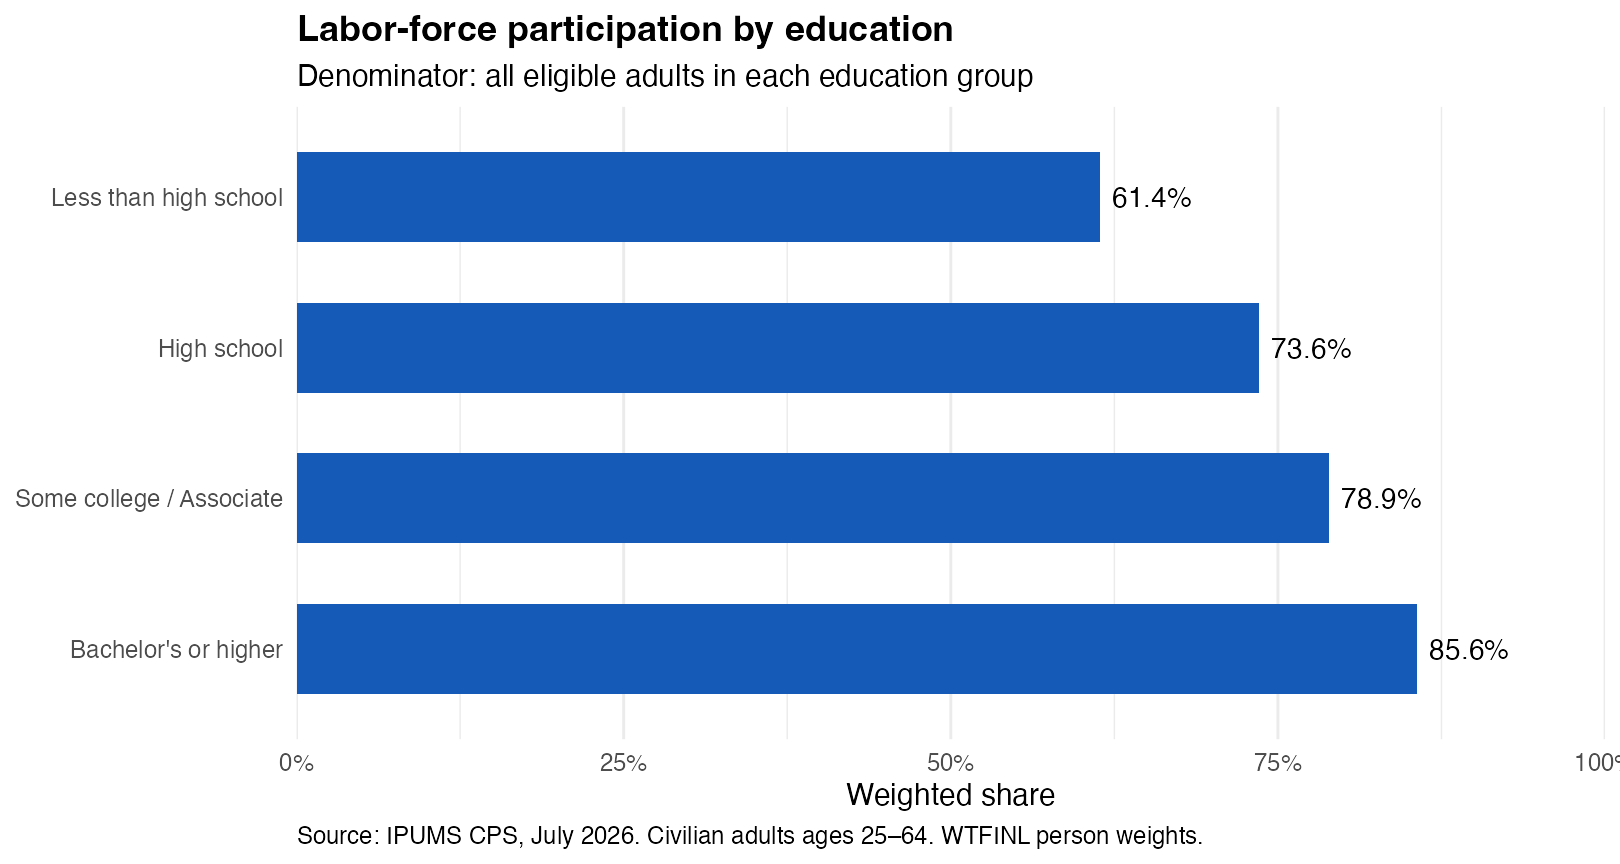
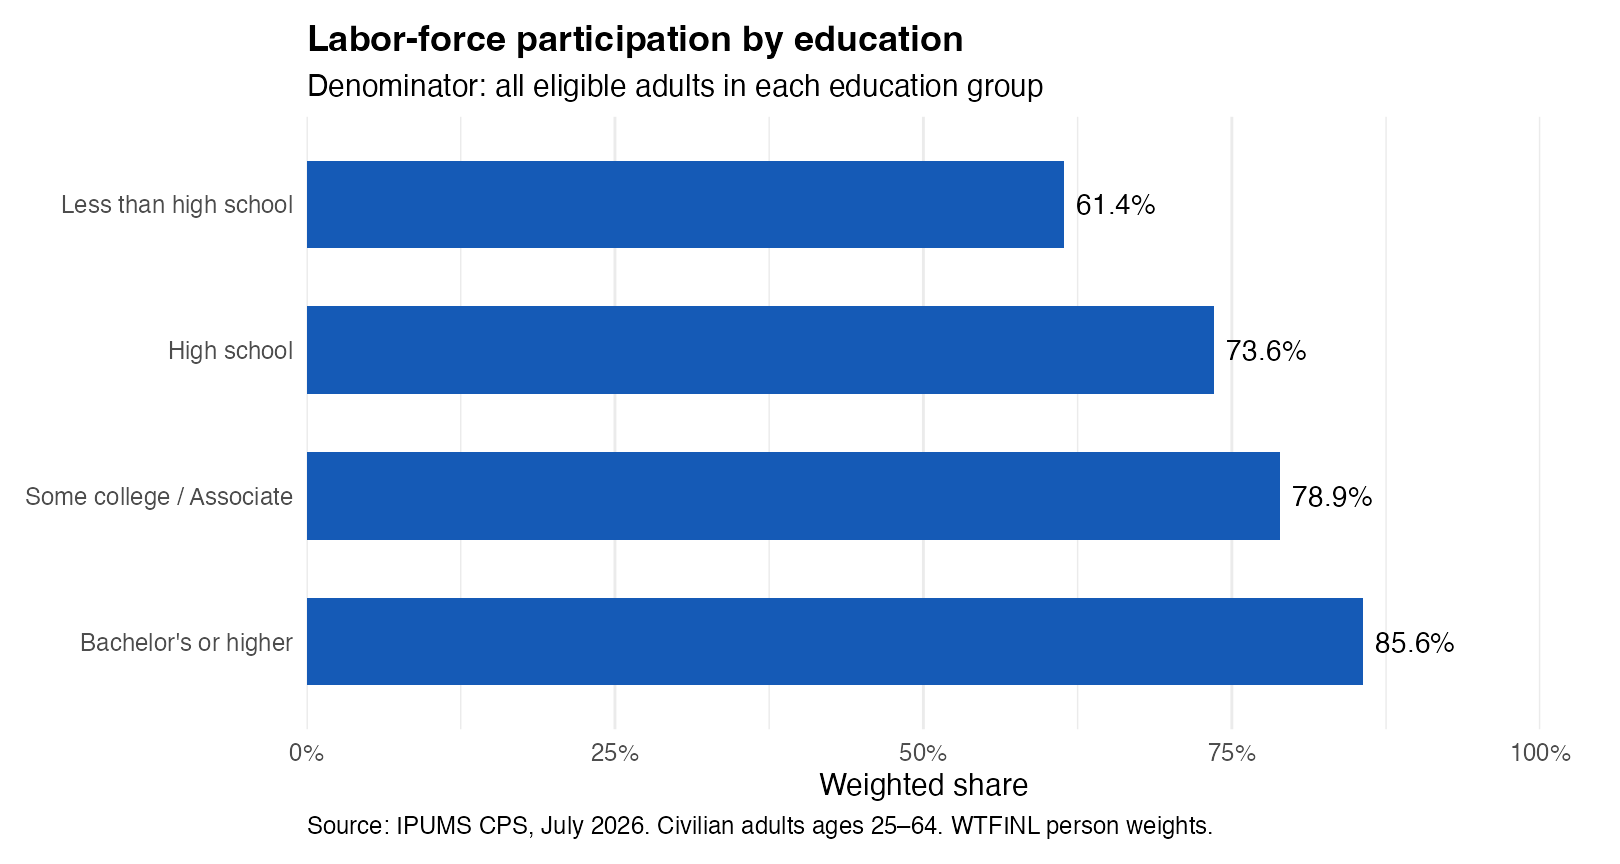
Give Blog 3 three distinct core figures and clarify Blog 6 runnable workflow

diff --git a/docs/blog/posts/post6/index.html b/docs/blog/posts/post6/index.html
@@ -185,9 +185,12 @@ money income</strong>, not individual earnings.</p>
 <p>Download your own authorized extract and keep the ASCII file, Stata
 reading statements, and codebook together. The repository’s Python
 script reads fixed-width positions from those statements; opening the
-file as a comma-separated CSV would misalign its fields. After
-installing the packages listed in the README, run this command from
-<code>blog/posts/post6</code>, using your local paths:</p>
+file as a comma-separated CSV would misalign its fields. The code
+excerpts below explain parts of the full script; they are not a
+standalone sequence to paste into a new Python session. For the complete
+import, matching, estimation and exports, install the packages listed in
+the README and run this command from <code>blog/posts/post6</code>,
+using your local paths:</p>
 <div class="sourceCode" id="cb1"><pre
 class="sourceCode bash"><code class="sourceCode bash"><span id="cb1-1"><a href="#cb1-1" aria-hidden="true" tabindex="-1"></a><span class="ex">python</span> code/analyze.py <span class="at">--data</span> /path/J366555.txt <span class="dt">\</span></span>
 <span id="cb1-2"><a href="#cb1-2" aria-hidden="true" tabindex="-1"></a>  <span class="at">--statements</span> /path/J366555.do <span class="at">--fims</span> /path/fim16218_gid_BO_2_UBL.txt</span></code></pre></div>
@@ -206,16 +209,16 @@ class="sourceCode sql"><code class="sourceCode sql"><span id="cb2-1"><a href="#c
 whose keys agree. Validate unique person–wave and family–wave keys
 first, then assert that this join preserves the membership row count.
 Otherwise, duplicate keys can silently multiply observations.</p>
-<p>The full importer creates these tables in Python. SQL then runs
-through the standard-library connection:</p>
+<p>The importer opens an in-memory SQLite connection, creates and
+populates the tables, and defines the <code>panel</code> view. Only
+<strong>after those steps</strong>, the following excerpt from
+<code>analyze.py</code> executes the SQL. Here <code>db</code> is that
+existing populated connection, and <code>ROOT</code> is the post
+directory defined by the script:</p>
 <div class="sourceCode" id="cb3"><pre
-class="sourceCode python"><code class="sourceCode python"><span id="cb3-1"><a href="#cb3-1" aria-hidden="true" tabindex="-1"></a><span class="im">import</span> sqlite3</span>
-<span id="cb3-2"><a href="#cb3-2" aria-hidden="true" tabindex="-1"></a><span class="im">from</span> pathlib <span class="im">import</span> Path</span>
-<span id="cb3-3"><a href="#cb3-3" aria-hidden="true" tabindex="-1"></a></span>
-<span id="cb3-4"><a href="#cb3-4" aria-hidden="true" tabindex="-1"></a>db <span class="op">=</span> sqlite3.<span class="ex">connect</span>(<span class="st">&quot;:memory:&quot;</span>)</span>
-<span id="cb3-5"><a href="#cb3-5" aria-hidden="true" tabindex="-1"></a><span class="co"># Populate people, membership, families, and links with the importer first.</span></span>
-<span id="cb3-6"><a href="#cb3-6" aria-hidden="true" tabindex="-1"></a>db.executescript(Path(<span class="st">&quot;sql/match.sql&quot;</span>).read_text())</span>
-<span id="cb3-7"><a href="#cb3-7" aria-hidden="true" tabindex="-1"></a>matched <span class="op">=</span> db.execute(<span class="st">&quot;SELECT * FROM matched ORDER BY child_pid&quot;</span>).fetchall()</span></code></pre></div>
+class="sourceCode python"><code class="sourceCode python"><span id="cb3-1"><a href="#cb3-1" aria-hidden="true" tabindex="-1"></a><span class="co"># Excerpt from analyze.py; run the full script for table creation and import.</span></span>
+<span id="cb3-2"><a href="#cb3-2" aria-hidden="true" tabindex="-1"></a>db.executescript((ROOT <span class="op">/</span> <span class="st">&quot;sql/match.sql&quot;</span>).read_text())</span>
+<span id="cb3-3"><a href="#cb3-3" aria-hidden="true" tabindex="-1"></a>matched <span class="op">=</span> db.execute(<span class="st">&quot;SELECT * FROM matched ORDER BY child_pid&quot;</span>).fetchall()</span></code></pre></div>
 <h2 id="summarize-years-before-matching-generations">2. Summarize years
 before matching generations</h2>
 <p>Income generally refers to the calendar year before the interview. I
@@ -252,8 +255,9 @@ persistence</h2>
 <p>The slope is the intergenerational elasticity (IGE): approximately
 how much higher child income is associated with a 1% difference in
 father income. Larger values indicate stronger income persistence, not a
-causal effect of parental money. Given the SQL connection above, Python
-obtains the slope as follows:</p>
+causal effect of parental money. Continuing inside the same full-script
+workflow, after <code>matched</code> exists, Python obtains the slope as
+follows:</p>
 <div class="sourceCode" id="cb5"><pre
 class="sourceCode python"><code class="sourceCode python"><span id="cb5-1"><a href="#cb5-1" aria-hidden="true" tabindex="-1"></a><span class="im">import</span> numpy <span class="im">as</span> np</span>
 <span id="cb5-2"><a href="#cb5-2" aria-hidden="true" tabindex="-1"></a></span>
@@ -264,7 +268,7 @@ class="sourceCode python"><code class="sourceCode python"><span id="cb5-1"><a hr
 <p>The full script repeats this regression for each income definition
 and exports the estimates and confidence intervals.</p>
 <figure>
-<img src="results/figures/figure1.svg"
+<img class="img-fluid figure-img" src="results/figures/figure1.svg"
 alt="Figure 1. Single-year versus multi-year prime-age family-income estimates, using identical matched pairs." />
 <figcaption aria-hidden="true">Figure 1. Single-year versus multi-year
 prime-age family-income estimates, using identical matched
@@ -282,7 +286,7 @@ child income (<code>1.10**0.574 - 1</code>). These averages remain
 imperfect proxies for lifetime income.</p>
 <h2 id="check-age-separately">4. Check age separately</h2>
 <figure>
-<img src="results/figures/figure2.svg"
+<img class="img-fluid figure-img" src="results/figures/figure2.svg"
 alt="Figure 2. Early-adult versus prime-age child income, holding the father’s multi-year measure and the matched sample fixed." />
 <figcaption aria-hidden="true">Figure 2. Early-adult versus prime-age
 child income, holding the father’s multi-year measure and the matched

diff --git a/docs/blog/posts/post3/index.html b/docs/blog/posts/post3/index.html
@@ -185,7 +185,7 @@ window.Quarto = {
     <div>
     <div class="quarto-title-meta-heading">Modified</div>
     <div class="quarto-title-meta-contents">
-      <p class="date-modified">October 19, 2026</p>
+      <p class="date-modified">October 22, 2026</p>
     </div>
   </div>
     
@@ -194,7 +194,6 @@ window.Quarto = {
 
 
 </header>
-
 <p>When people discuss education and employment, they often focus on
 unemployment. Yet the unemployment rate excludes people outside the
 labor force. A group can therefore have relatively low unemployment even
@@ -212,7 +211,7 @@ civilian adults ages 25–64 in four education groups. All estimates use
 the final basic person weight. The retained sample contains 44,881
 respondents. These are descriptive estimates for one month, without
 seasonal adjustment.</p>
-<figure class="figure">
+<figure>
 <img class="img-fluid figure-img" src="results/participation.png"
 alt="Figure 1. Weighted labor-force participation rates: 61.4%, 73.6%, 78.9%, and 85.6% across increasing education groups." />
 <figcaption aria-hidden="true">Figure 1. Weighted labor-force
@@ -228,26 +227,19 @@ the first and last groups was 24.2 percentage points.</p>
 <p>Participation includes unsuccessful job seekers, so the next step is
 to ask how many adults actually had jobs, using the same population
 denominator.</p>
-<figure class="figure">
-<img class="img-fluid figure-img" src="results/employment.png"
-alt="Figure 2. Weighted employment-to-population ratios: 58.3%, 70.4%, 76.0%, and 83.0% across increasing education groups." />
-<figcaption aria-hidden="true">Figure 2. Weighted
-employment-to-population ratios: 58.3%, 70.4%, 76.0%, and 83.0% across
-increasing education groups.</figcaption>
-</figure>
 <p>Employment rose from 58.3% in the lowest education group to 70.4%,
 76.0%, and 83.0% in the next three groups. The 24.7-percentage-point
 employment gap was close to the participation gap. This points toward
 nonparticipation as a major part of the difference, rather than only
 difficulty finding work among participants.</p>
-<figure class="figure">
+<figure>
 <img class="img-fluid figure-img" src="results/unemployment.png"
-alt="Figure 3. Weighted unemployment rates among participants: 5.0%, 4.2%, 3.7%, and 3.1% across increasing education groups." />
-<figcaption aria-hidden="true">Figure 3. Weighted unemployment rates
+alt="Figure 2. Weighted unemployment rates among participants: 5.0%, 4.2%, 3.7%, and 3.1% across increasing education groups." />
+<figcaption aria-hidden="true">Figure 2. Weighted unemployment rates
 among participants: 5.0%, 4.2%, 3.7%, and 3.1% across increasing
 education groups.</figcaption>
 </figure>
-<p>Figure 3 changes the denominator to employed plus unemployed adults.
+<p>Figure 2 changes the denominator to employed plus unemployed adults.
 Unemployment fell from 5.0% in the lowest education group to 4.2%, 3.7%,
 and 3.1% as education increased. Its 1.9-percentage-point gap was much
 smaller than the participation gap. These figures are linked by an
@@ -257,13 +249,13 @@ participation and employment, but does not enter the unemployment
 denominator.</p>
 <p>What, then, lies behind nonparticipation? The existing
 employment-status variable distinguishes “unable to work,” “retired,”
-and “other” among adults outside the labor force. Figure 4 separates
+and “other” among adults outside the labor force. Figure 3 separates
 these categories, keeping all adults in each education group as the
 denominator.</p>
-<figure class="figure">
+<figure>
 <img class="img-fluid figure-img" src="results/nonparticipation.png"
-alt="Figure 4. Nonparticipation by recorded status. Each segment is a share of all adults in the education group, not only nonparticipants. Other NILF does not separately identify caregiving." />
-<figcaption aria-hidden="true">Figure 4. Nonparticipation by recorded
+alt="Figure 3. Nonparticipation by recorded status. Each segment is a share of all adults in the education group, not only nonparticipants. Other NILF does not separately identify caregiving." />
+<figcaption aria-hidden="true">Figure 3. Nonparticipation by recorded
 status. Each segment is a share of all adults in the education group,
 not only nonparticipants. Other NILF does not separately identify
 caregiving.</figcaption>
@@ -307,8 +299,9 @@ href="https://cps.ipums.org/cps-action/variables/NILFACT">activity-variable
 documentation</a>. <a
 href="https://github.com/ywang818-max/website/tree/main/blog/posts/post3">Code,
 aggregate data, and step-by-step replication instructions</a> reproduce
-all four figures and tables; the README also explains how to rebuild
-them from an authorized IPUMS microdata extract.</p>
+the three article figures, supplementary employment chart, and tables;
+the README also explains how to rebuild them from an authorized IPUMS
+microdata extract.</p>
 
 </main> <!-- /main -->
 <script id="quarto-html-after-body" type="application/javascript">

diff --git a/blog/posts/post3/README.md b/blog/posts/post3/README.md
@@ -2,7 +2,7 @@
 
 **Published article:** https://ywang818-max.github.io/website/blog/posts/post3/
 
-This project uses July 2026 IPUMS CPS Basic Monthly data for civilian adults ages 25–64. It produces four connected figures: participation, employment, unemployment, and nonparticipation status. Every population estimate uses the person weight **WTFINL**.
+This project uses July 2026 IPUMS CPS Basic Monthly data for civilian adults ages 25–64. The article uses three core figures: participation, unemployment, and nonparticipation status. Employment-to-population ratios remain in the prose; the script also saves a supplementary employment chart for inspection. Every population estimate uses the person weight **WTFINL**.
 
 ## Quick start: reproduce the published results offline
 
@@ -51,9 +51,9 @@ post3/
     ├── nonparticipation_status.csv        # Three NILF categories and denominators
     ├── participation_gap_accounting.csv   # Lowest vs highest education gap
     ├── participation.png                  # Figure 1
-    ├── employment.png                     # Figure 2
-    ├── unemployment.png                   # Figure 3
-    ├── nonparticipation.png               # Figure 4
+    ├── employment.png                     # Supplementary diagnostic
+    ├── unemployment.png                   # Figure 2
+    ├── nonparticipation.png               # Figure 3
     └── session-info.txt                   # Versions used for the run
 ```
 

diff --git a/blog/posts/post3/REPRODUCTION_CHECK.md b/blog/posts/post3/REPRODUCTION_CHECK.md
@@ -23,3 +23,12 @@ R/package versions for the run are in `results/session-info.txt`. IPUMS source, 
 The results are one-month descriptive estimates. No causal effect or statistical significance is claimed. The inability-to-work difference contributes about 12.82 of 24.24 percentage points in the participation gap; this is accounting, not evidence that schooling would remove that barrier. The broad EMPSTAT=34 category cannot be treated as caregiving. Further caregiving analysis requires an authorized extract with NILFACT and its correct universe.
 
 These checks document the revision, not a promise of a particular regraded score.
+
+## October 22: distinct core figures and readable axes
+
+The article now has three substantive core figures: participation, unemployment,
+and the composition of nonparticipation. Employment values remain in the prose
+and exported tables; its supplementary diagnostic chart is still generated by
+the script. This avoids counting a mathematically related rate as a separate
+discovery. Increased right-hand plot margins so percentage endpoint labels fit.
+Reran the offline pipeline; all four numerical CSV outputs are unchanged.

diff --git a/blog/posts/post6/REPRODUCTION_CHECK.md b/blog/posts/post6/REPRODUCTION_CHECK.md
@@ -29,3 +29,10 @@ Added explicit Python-to-SQL execution and NumPy estimation examples, specified
 the working directory for the short command, explained complete-case selection,
 and distinguished the 0.574 average-child benchmark from the 0.601 single-child
 benchmark. Numerical findings and selection rules are unchanged.
+
+## October 22 tutorial prerequisite clarification
+
+Marked inline snippets as explanatory excerpts. Removed the misleading fresh
+empty connection from the SQL execution example and used the actual script's
+ROOT-based path. The complete CLI remains the runnable entry point; analysis
+code, input rules and all numerical results are unchanged.

diff --git a/blog/posts/post6/README.md b/blog/posts/post6/README.md
@@ -67,6 +67,10 @@ Run the analysis before rendering to regenerate figures. The deployed file is
 `docs/blog/posts/post6/index.html`; SVGs and the aggregate CSV are copied to that
 post's results directory. The site requires no access to private inputs.
 
+The article’s inline code blocks are explanatory excerpts. They depend on the
+connection, tables and `ROOT` variable created inside the full script; use the
+complete CLI command above for an end-to-end run.
+
 ## Matching and selection, explicitly
 
 1. Read the Stata `infix` positions directly; parse numeric fixed-width fields,
